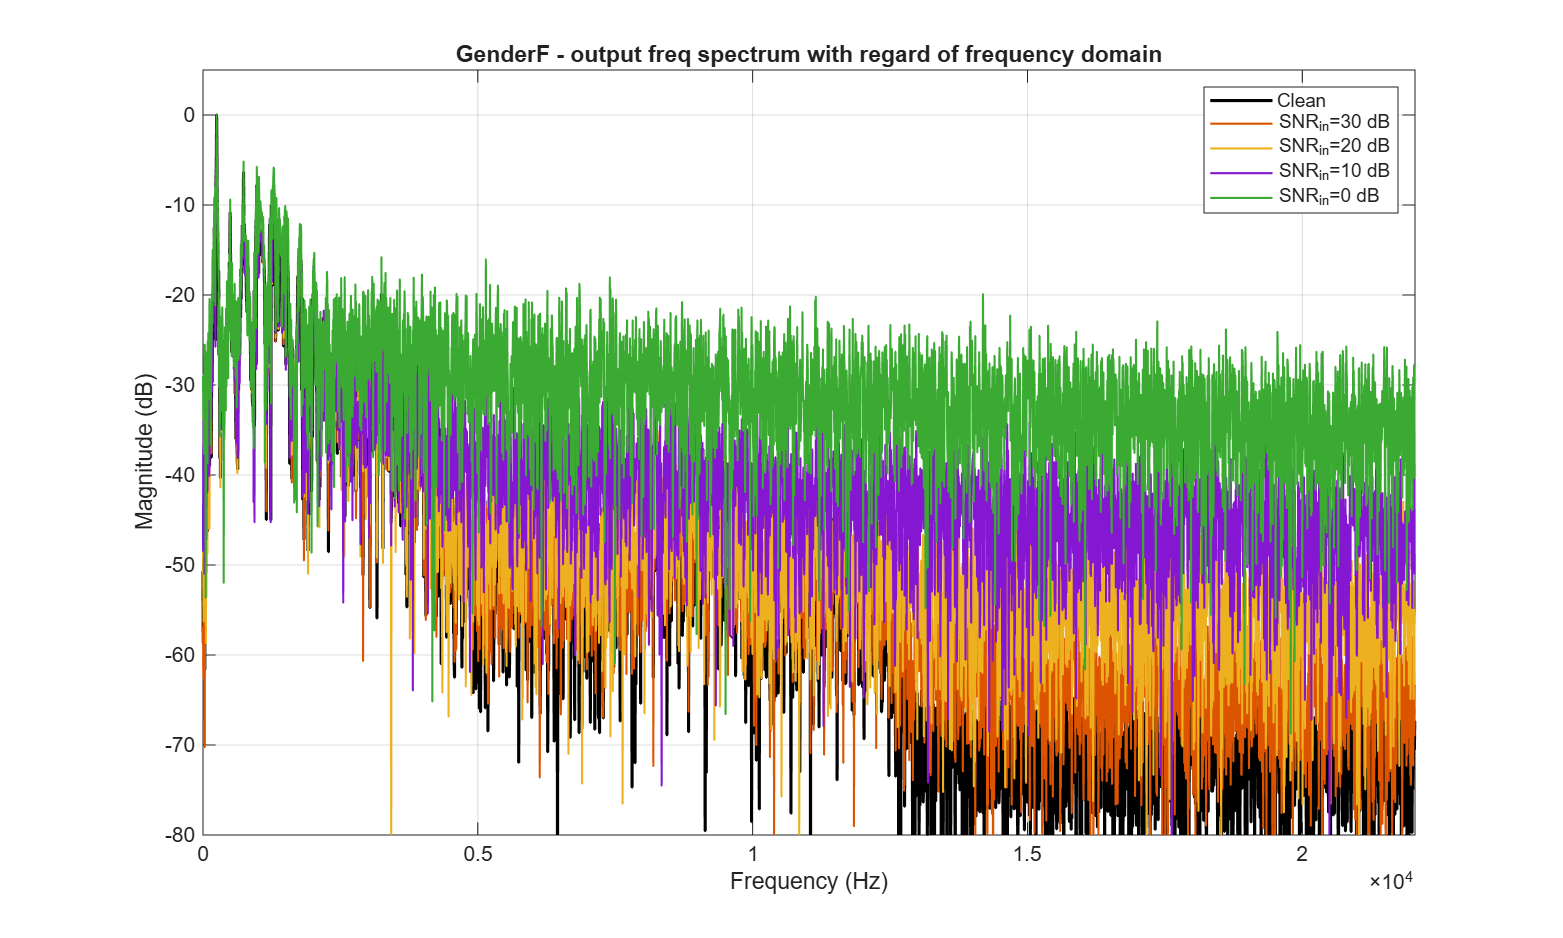
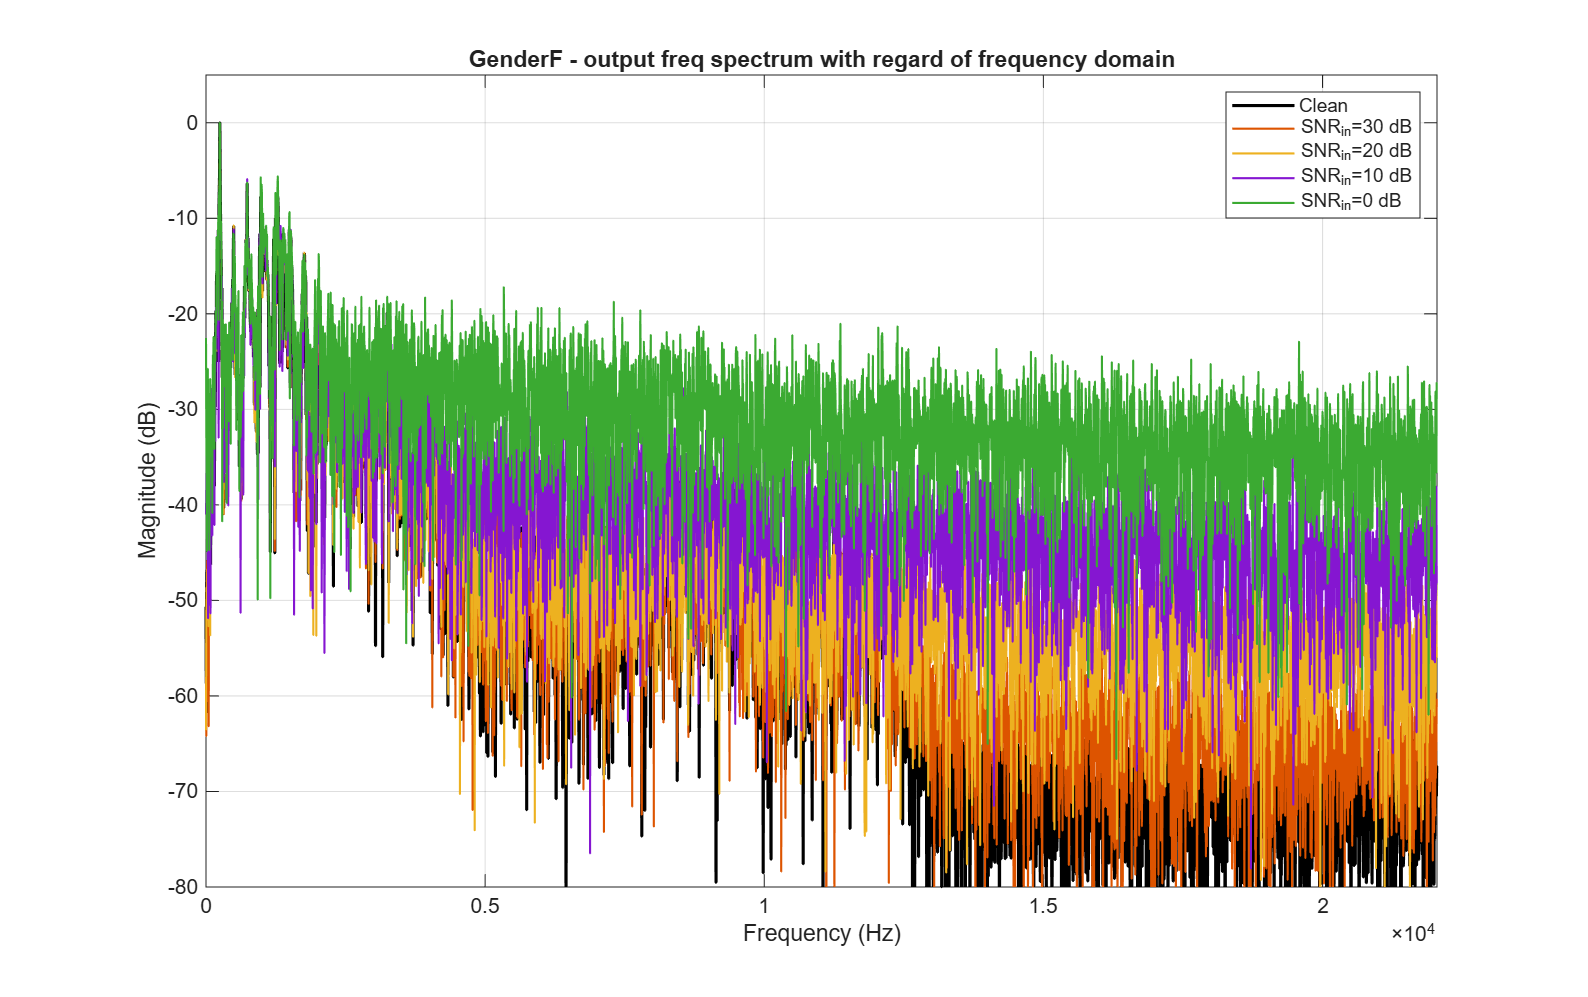
robust analysis for sampling

diff --git a/samplingResolutionAnalysis.m b/samplingResolutionAnalysis.m
@@ -1,0 +1,160 @@
+function samplingResolutionAnalysis()
+% SAMPLINGRESOLUTIONANALYSIS  Stress test: sampling rate / effective resolution.
+%
+% For each voice-distortion effect this script reduces the sampling rate of
+% the input before processing and studies the effect on the DFT-based
+% conclusions. Two downsampling methods are compared at every rate:
+%
+%   * "resample"  - polyphase decimation WITH an anti-aliasing low-pass.
+%                   Shows genuine LOSS OF INFORMATION: everything above the
+%                   new Nyquist (Fs_ds/2) is removed and cannot be recovered.
+%   * "decimate"  - naive keep-every-Mth-sample WITHOUT any anti-alias
+%                   filter. Shows ALIASING: energy above Fs_ds/2 folds back
+%                   into the baseband as spurious peaks.
+%
+% The frequency resolution of a length-N DFT is df = Fs/N, so lowering Fs
+% (with N fixed) also makes each bin finer in Hz while shrinking the usable
+% band [0, Fs/2] -- the "effective resolution" trade-off.
+
+
+    outputDir = fullfile('results', 'sampling_resolution');
+    if ~exist(outputDir, 'dir')
+        mkdir(outputDir);
+    end
+
+    % Integer downsampling factors relative to each file's native Fs.
+    % factor 1 = full rate (baseline), 6 = aggressive (heavy band-limiting).
+    factors = [1, 2, 4, 6];
+
+    tests = { ...
+        struct('name','Robotic',  'func',@roboticdistortion, 'input','inputfiles/voice-sample.wav'), ...
+        struct('name','Equalizer','func',@graphicEqualizer,  'input','inputfiles/music-sample.wav'), ...
+        struct('name','Filter',   'func',@filtering,         'input','inputfiles/music-sample.wav'), ...
+        struct('name','Chorus',   'func',@chorusOrig,                                          'input','inputfiles/singingm4a-sample.wav'), ...
+        struct('name','GenderF',  'func',@(f) Gender_style_conversion(f, "feminine"),          'input','inputfiles/voice-sample.wav'), ...
+        struct('name','GenderM',  'func',@(f) Gender_style_conversion(f, "masculine"),         'input','inputfiles/vocals_F.wav') ...
+    };
+
+    N = 8192;            % DFT size used for every spectrum
+    half = 1:N/2;
+
+    for t = 1:length(tests)
+        test = tests{t};
+        fprintf('\n=== %s ===\n', test.name);
+
+        [cleanSig, Fs] = audioread(test.input);
+        cleanSig = mean(cleanSig, 2);                       % force mono
+        cleanSig = cleanSig / max(abs(cleanSig) + eps);
+
+        % --- Baseline: process at the original (full) sampling rate -------
+        fullProc = processAtRate(test.func, cleanSig, Fs);
+        fullProc = fullProc(:) / max(abs(fullProc) + eps);
+
+        fig = figure('Position', [100 100 1100 800], 'Visible', 'off');
+
+        % ============ Subplot 1: proper (anti-aliased) downsampling =======
+        ax1 = subplot(2,1,1, 'Parent', fig);
+        hold(ax1, 'on');
+        legend1 = {};
+        fprintf('  Anti-aliased downsampling (resample) vs naive decimation:\n');
+        fprintf('  %-8s | %-9s | reconstruction SNR (dB)\n', 'factor', 'Fs (Hz)');
+        fprintf('  %-8s | %-9s | %-12s %-12s\n', '', '', 'resample', 'decimate');
+
+        for k = 1:length(factors)
+            M = factors(k);
+            FsDs = round(Fs / M);
+
+            % --- proper, anti-aliased downsampling -> information loss ----
+            if M == 1
+                sigDs = cleanSig;
+            else
+                sigDs = resample(cleanSig, 1, M);           % polyphase + LPF
+            end
+            procDs = processAtRate(test.func, sigDs, FsDs);
+            procDs = procDs(:) / max(abs(procDs) + eps);
+
+            freq = (0:N/2-1) * (FsDs / N);
+            Y = abs(fft(procDs, N));
+            plot(ax1, freq, 20*log10(Y(half)/max(Y) + eps), 'LineWidth', 1.2);
+            legend1{end+1} = sprintf('M=%d  (Fs=%d Hz, Ny=%d Hz)', ...
+                                     M, FsDs, round(FsDs/2)); %#ok<AGROW>
+
+            % --- naive decimation (no anti-alias) -> aliasing -------------
+            if M == 1
+                sigAlias = cleanSig;
+            else
+                sigAlias = cleanSig(1:M:end);               % keep every Mth
+            end
+            procAlias = processAtRate(test.func, sigAlias, FsDs);
+            procAlias = procAlias(:) / max(abs(procAlias) + eps);
+
+            % --- quantify: bring both back to full rate and compare -------
+            snrResample = reconstructionSNR(procDs,    M, fullProc);
+            snrDecimate = reconstructionSNR(procAlias, M, fullProc);
+            fprintf('  %-8d | %-9d | %-12.2f %-12.2f\n', ...
+                    M, FsDs, snrResample, snrDecimate);
+
+            % Stash the most aggressive case for the aliasing subplot.
+            if k == length(factors)
+                aliasDemo = struct('FsDs',FsDs,'M',M, ...
+                                   'proper',procDs,'naive',procAlias);
+            end
+        end
+
+        title(ax1, sprintf(['%s  -  anti-aliased downsampling ' ...
+            '(information loss above each Nyquist)'], test.name));
+        xlabel(ax1, 'Frequency (Hz)'); ylabel(ax1, 'Magnitude (dB)');
+        legend(ax1, legend1, 'Location', 'southwest');
+        grid(ax1, 'on'); xlim(ax1, [0 Fs/2]); ylim(ax1, [-80 5]);
+
+        % ============ Subplot 2: aliasing demonstration ===================
+        ax2 = subplot(2,1,2, 'Parent', fig);
+        hold(ax2, 'on');
+        freqA = (0:N/2-1) * (aliasDemo.FsDs / N);
+
+        Yp = abs(fft(aliasDemo.proper, N));
+        Yn = abs(fft(aliasDemo.naive,  N));
+        plot(ax2, freqA, 20*log10(Yp(half)/max(Yp) + eps), 'b', 'LineWidth', 1.2);
+        plot(ax2, freqA, 20*log10(Yn(half)/max(Yn) + eps), 'r', 'LineWidth', 1.0);
+
+        title(ax2, sprintf(['M=%d (Fs=%d Hz): anti-aliased vs naive ' ...
+            'decimation - red shows aliased energy folded into the band'], ...
+            aliasDemo.M, aliasDemo.FsDs));
+        xlabel(ax2, 'Frequency (Hz)'); ylabel(ax2, 'Magnitude (dB)');
+        legend(ax2, {'resample (anti-aliased)', 'decimate (aliased)'}, ...
+               'Location', 'southwest');
+        grid(ax2, 'on'); xlim(ax2, [0 aliasDemo.FsDs/2]); ylim(ax2, [-80 5]);
+
+        saveas(fig, fullfile(outputDir, sprintf('%s.png', test.name)));
+        close(fig);
+    end
+
+    fprintf('\nDone. Figures saved in: %s\n', outputDir);
+end
+
+% --- run an effect on an in-memory signal at a given sample rate ----------
+function out = processAtRate(fn, sig, Fs)
+    p = fullfile(tempdir, sprintf('sr_%d_%d.wav', Fs, round(rand*1e6)));
+    audiowrite(p, sig / max(abs(sig) + eps), Fs);
+    [~, out] = evalc('fn(p)');
+    try
+        clear playsnd
+    catch
+    end
+    if exist(p, 'file'); delete(p); end
+end
+
+% --- reconstruction SNR: upsample processed-downsampled output back to ----
+% --- the full rate and compare against the full-rate processed output -----
+function snrVal = reconstructionSNR(procDs, M, fullProc)
+    if M == 1
+        up = procDs;
+    else
+        up = resample(procDs, M, 1);
+    end
+    L = min(length(up), length(fullProc));
+    ref = fullProc(1:L);
+    est = up(1:L);
+    est = est / (max(abs(est)) + eps) * (max(abs(ref)) + eps);  % match level
+    snrVal = 10*log10(sum(ref.^2) / (sum((ref - est).^2) + eps));
+end